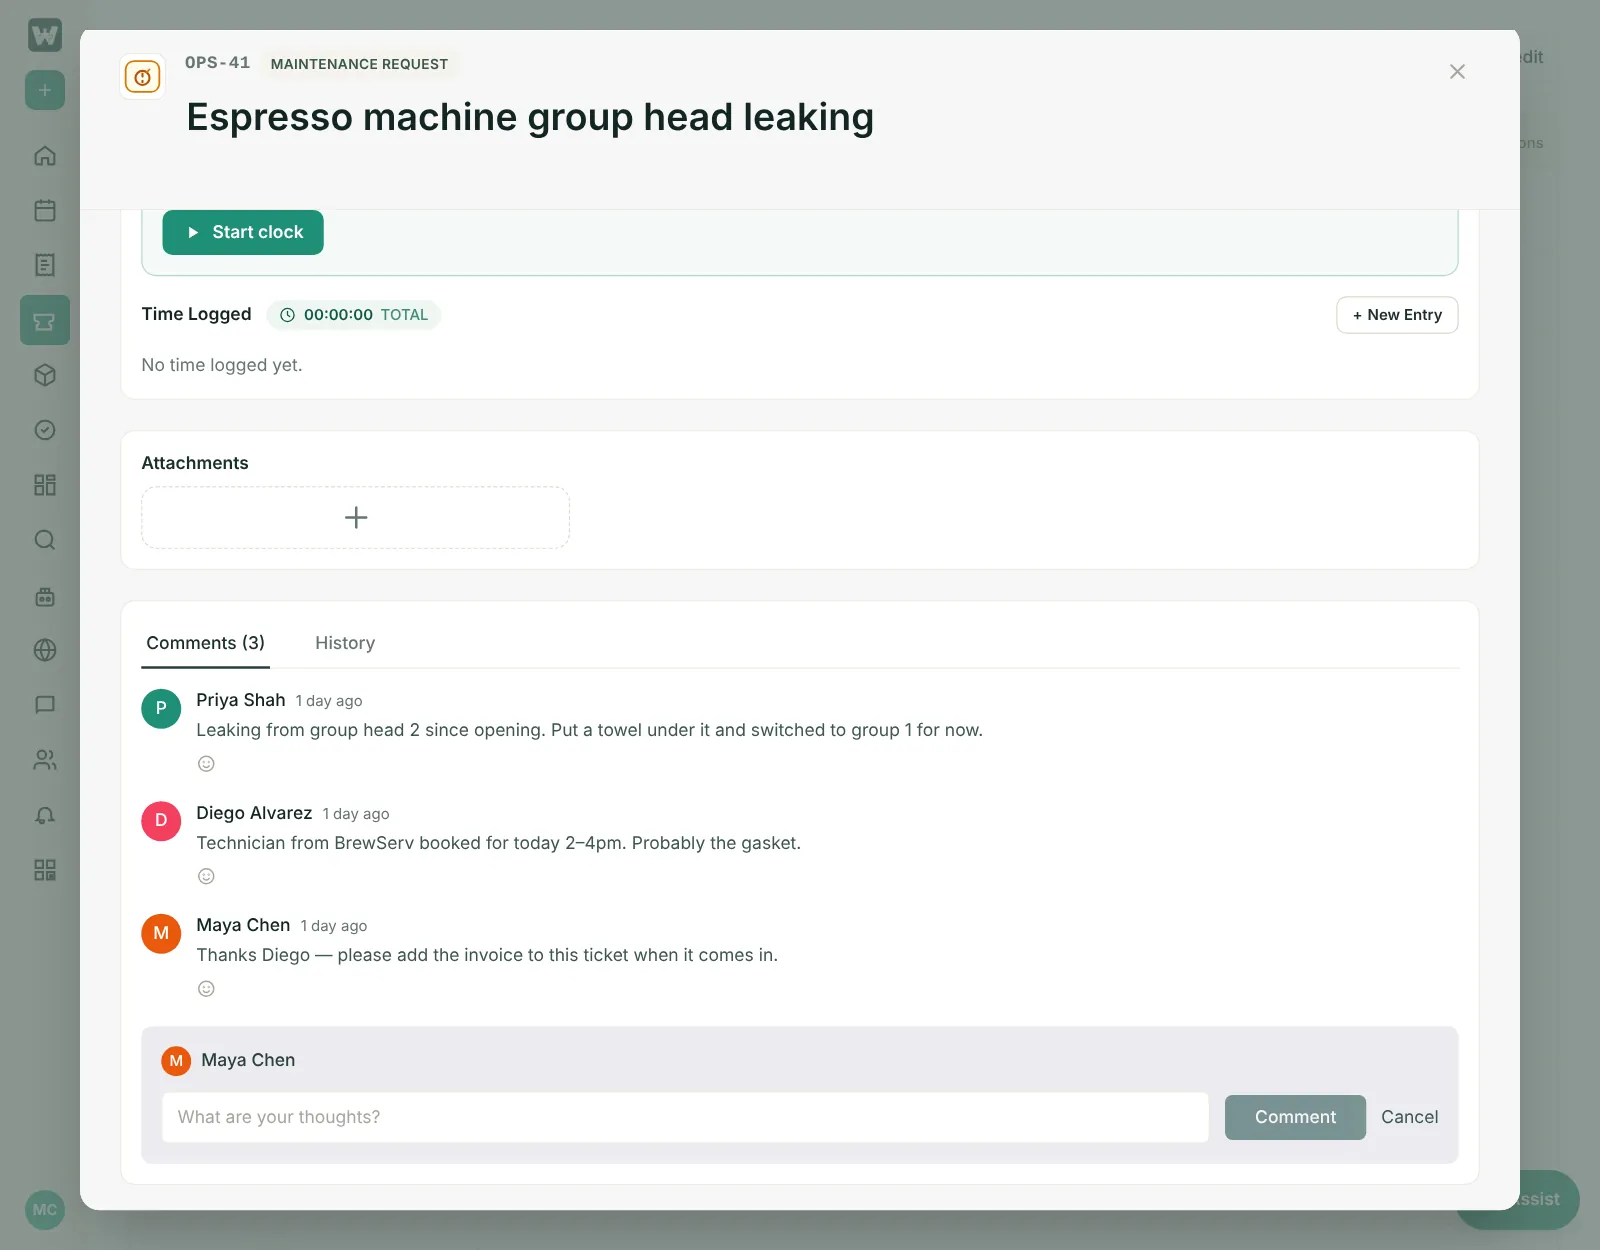
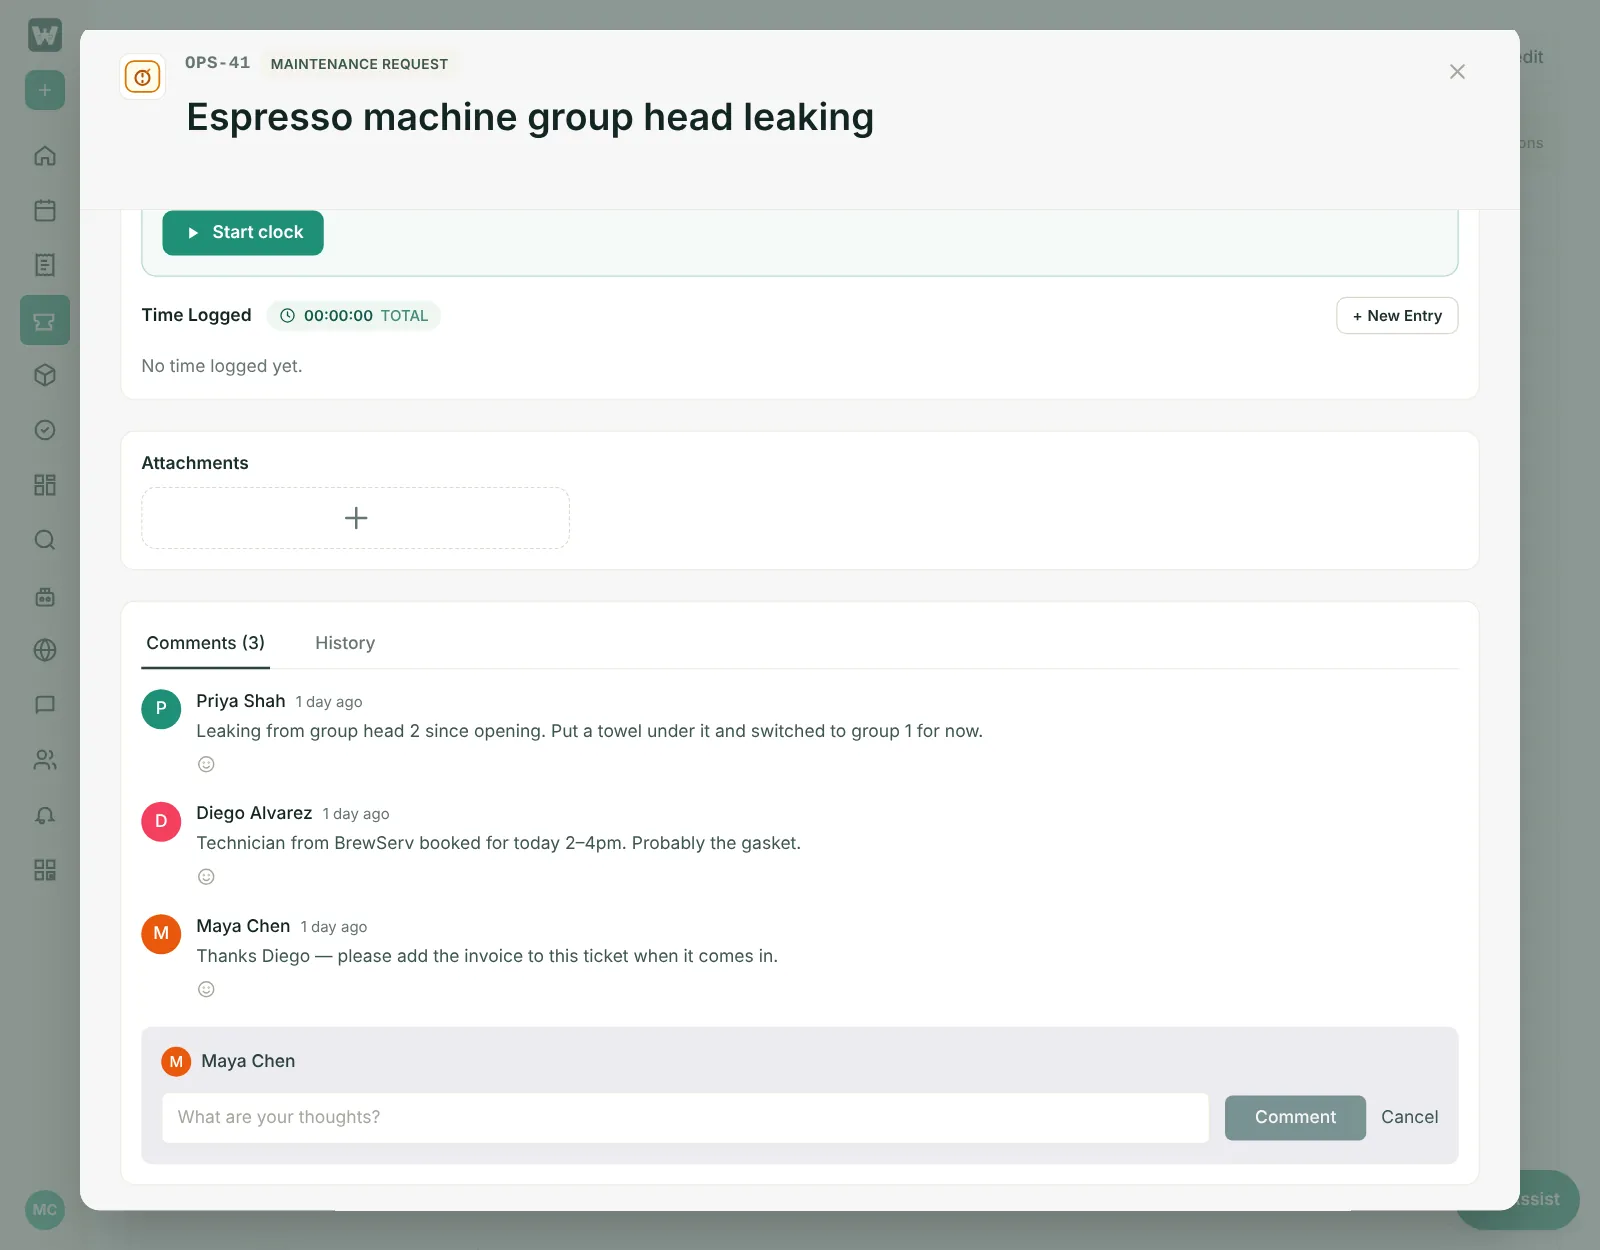
Docs: Linked tickets is a built-in ticket section
Adds Linked tickets to the sections table and What's new, and retakes the
Sections panel screenshot with the new row.

Claude-Session: https://claude.ai/code/session_01LrkZDcZU3B667ZymrL3Co3

diff --git a/docs/tickets/index.html b/docs/tickets/index.html
@@ -141,6 +141,7 @@
             <tr><td>Time logging</td><td>A clock in / stop timer and time entries, with the total time logged.</td></tr>
             <tr><td>Attach files</td><td>Upload files when you create the ticket, and attach more later.</td></tr>
             <tr><td>Hierarchy</td><td>Parent and child tickets: put the ticket under a parent, or add children to it — a milestone and its punch items, an epic and its stories.</td></tr>
+            <tr><td>Linked tickets</td><td>Link the ticket to related ones: <em>relates to</em>, <em>blocks</em>, <em>blocked by</em>, <em>dependent on</em>, <em>duplicates</em>. Shows on the open ticket.</td></tr>
             <tr><td colspan="2"><strong>Apps</strong> (once connected)</td></tr>
             <tr><td><a href="/docs/integrations/github/">GitHub</a></td><td>Branches, commits, and pull requests linked to the ticket.</td></tr>
             <tr><td><a href="/docs/integrations/claude/">Claude agent</a></td><td>Hand the ticket to a Claude coding agent and follow its progress.</td></tr>
@@ -155,11 +156,11 @@
           <li>Switch each section on or off. It saves straight away.</li>
           <li>Apps you haven’t connected are greyed out, with an <strong>Open Apps</strong> link to connect them first.</li>
         </ol>
-        <figure class="shot"><img src="/assets/screens/ticket-types-sections.webp" alt="Sections on Maintenance Request tickets: Time logging and Attach files on, Hierarchy off, and GitHub under Apps greyed out until connected; Food Safety Issue and Guest Feedback show Attach files in the Sections column" loading="lazy" width="1600" height="1250"><figcaption>Maintenance Request tickets get time logging and file uploads, but no parent / children</figcaption></figure>
+        <figure class="shot"><img src="/assets/screens/ticket-types-sections.webp" alt="Sections on Maintenance Request tickets: Time logging and Attach files on, Hierarchy and Linked tickets off, and GitHub under Apps greyed out until connected; Food Safety Issue and Guest Feedback show Attach files in the Sections column" loading="lazy" width="1600" height="1250"><figcaption>Maintenance Request tickets get time logging and file uploads, but no parent / children or linked tickets</figcaption></figure>
         <h3>Where sections show</h3>
         <ul>
           <li><strong>Everywhere the ticket does.</strong> A section that’s on shows on New Ticket and on the open ticket; one that’s off is hidden from both. Sections aren’t fields, so they’re not in Ticket Type Screens or the Fields list — this switch is the only one.</li>
-          <li><strong>Nothing is lost when you turn one off.</strong> A ticket that already has files, logged time, or a parent or children keeps showing them.</li>
+          <li><strong>Nothing is lost when you turn one off.</strong> A ticket that already has files, logged time, a parent or children, or linked tickets keeps showing them.</li>
           <li><strong>Apps follow the switch too.</strong> When the Claude or Cursor section is off for a type, that type’s tickets can’t be handed to the agent, including by stage automations.</li>
         </ul>
         <div class="shot-pair"><figure class="shot"><img src="/assets/screens/new-ticket-sections.webp" alt="New Ticket for a Maintenance Request, ending with the Time Logged section and the Attach Files section with Add files" loading="lazy" width="1600" height="1250"><figcaption>New Ticket with Time logging and Attach files on</figcaption></figure><figure class="shot"><img src="/assets/screens/ticket-detail-sections.webp" alt="An open Maintenance Request with Start clock, Time Logged and Attachments sections above the comments" loading="lazy" width="1600" height="1250"><figcaption>The same sections on the open ticket</figcaption></figure></div>

diff --git a/docs/whats-new/index.html b/docs/whats-new/index.html
@@ -38,7 +38,7 @@
       <h1>What’s new</h1>
       <p class="intro">New features and improvements in Worklynq, newest first.</p>
       <section class="release" id="2026-11-04"><h2>November 4, 2026</h2>
-        <article class="change" id="sections-per-type"><span class="change-tag">Changed</span><h3>Choose the sections each ticket type shows</h3><p>Time logging, Attach files, and Hierarchy (parent / child tickets) are now <strong>sections</strong>, switched on per ticket type in the Sections column of Ticket Types, next to GitHub, Claude, and Cursor. Every section starts off — for new ticket types and newly connected apps too — so turn on what each type needs. A section that’s on shows on New Ticket and on the open ticket; tickets that already have files, time, or children keep showing them.</p><p class="change-link"><a href="/docs/tickets/#sections">Control sections →</a></p></article>
+        <article class="change" id="sections-per-type"><span class="change-tag">Changed</span><h3>Choose the sections each ticket type shows</h3><p>Time logging, Attach files, Hierarchy (parent / child tickets), and Linked tickets are now <strong>sections</strong>, switched on per ticket type in the Sections column of Ticket Types, next to GitHub, Claude, and Cursor. Every section starts off — for new ticket types and newly connected apps too — so turn on what each type needs. A section that’s on shows on New Ticket and on the open ticket; tickets that already have files, time, children, or links keep showing them.</p><p class="change-link"><a href="/docs/tickets/#sections">Control sections →</a></p></article>
         <article class="change" id="setup-mapping"><span class="change-tag">Fixed</span><h3>Ticket types chosen in setup work at your locations right away</h3><p>The ticket types you pick in first-time setup are now turned on for the locations or projects you added the step before, so you can create tickets there straight away.</p><p class="change-link"><a href="/docs/getting-started/#ticket-types">Getting started →</a></p></article>
         <article class="change" id="docs-trash"><span class="change-tag">Fixed</span><h3>Deleted pages go to Docs trash</h3><p>Deleting a page, folder, or space now moves it to Docs trash, where your System Admin can recover it or delete it for good. Before, deleted pages were erased straight away.</p><p class="change-link"><a href="/docs/modules/#spaces">Spaces →</a></p></article>
         <article class="change" id="session-expiry"><span class="change-tag">Improved</span><h3>An expired session takes you to sign in and back</h3><p>If your session runs out while a tab is open, Worklynq now sends you to sign in and then back to the page you were on, instead of failing every action. Bulk edit on the tickets list works again, too.</p><p class="change-link"><a href="/docs/signing-in/#cant-sign-in">Signing in →</a></p></article>
